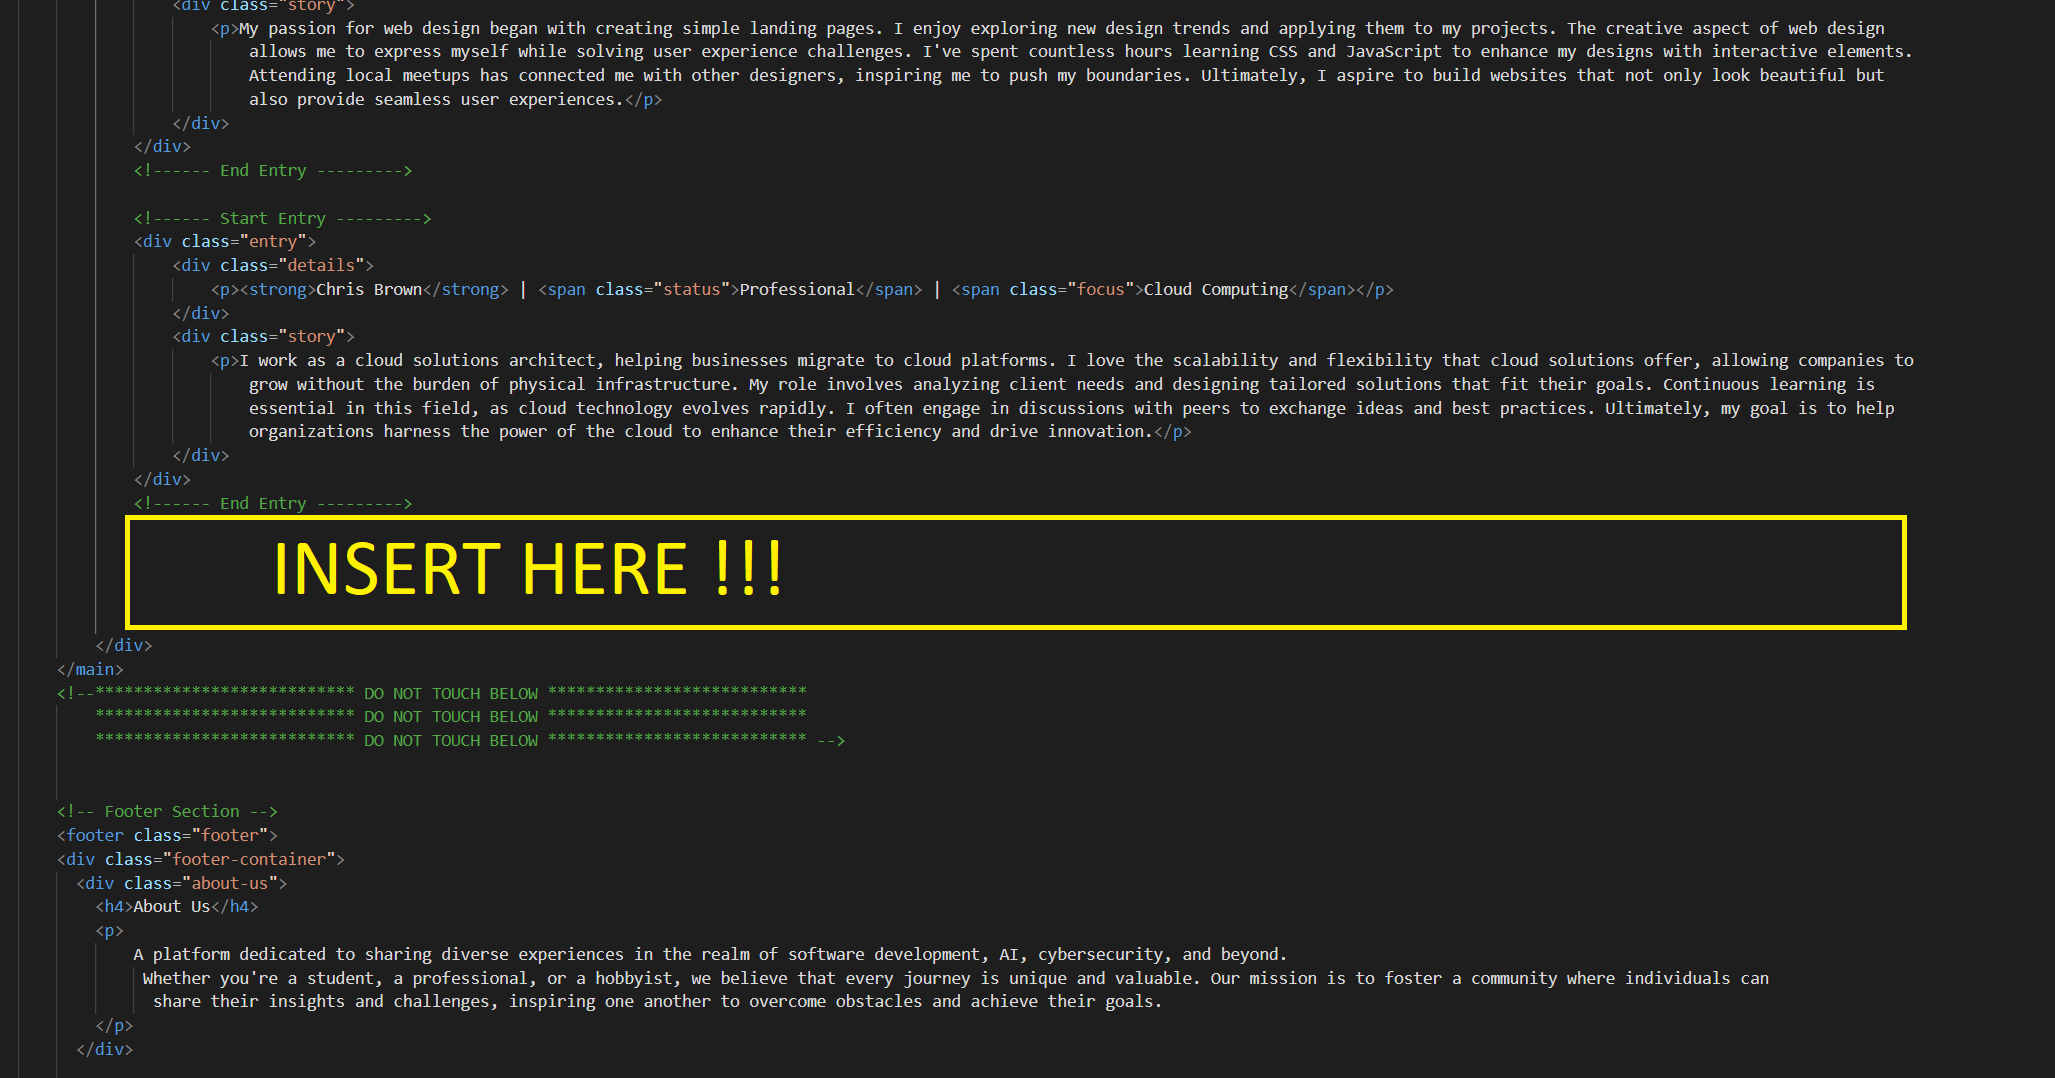
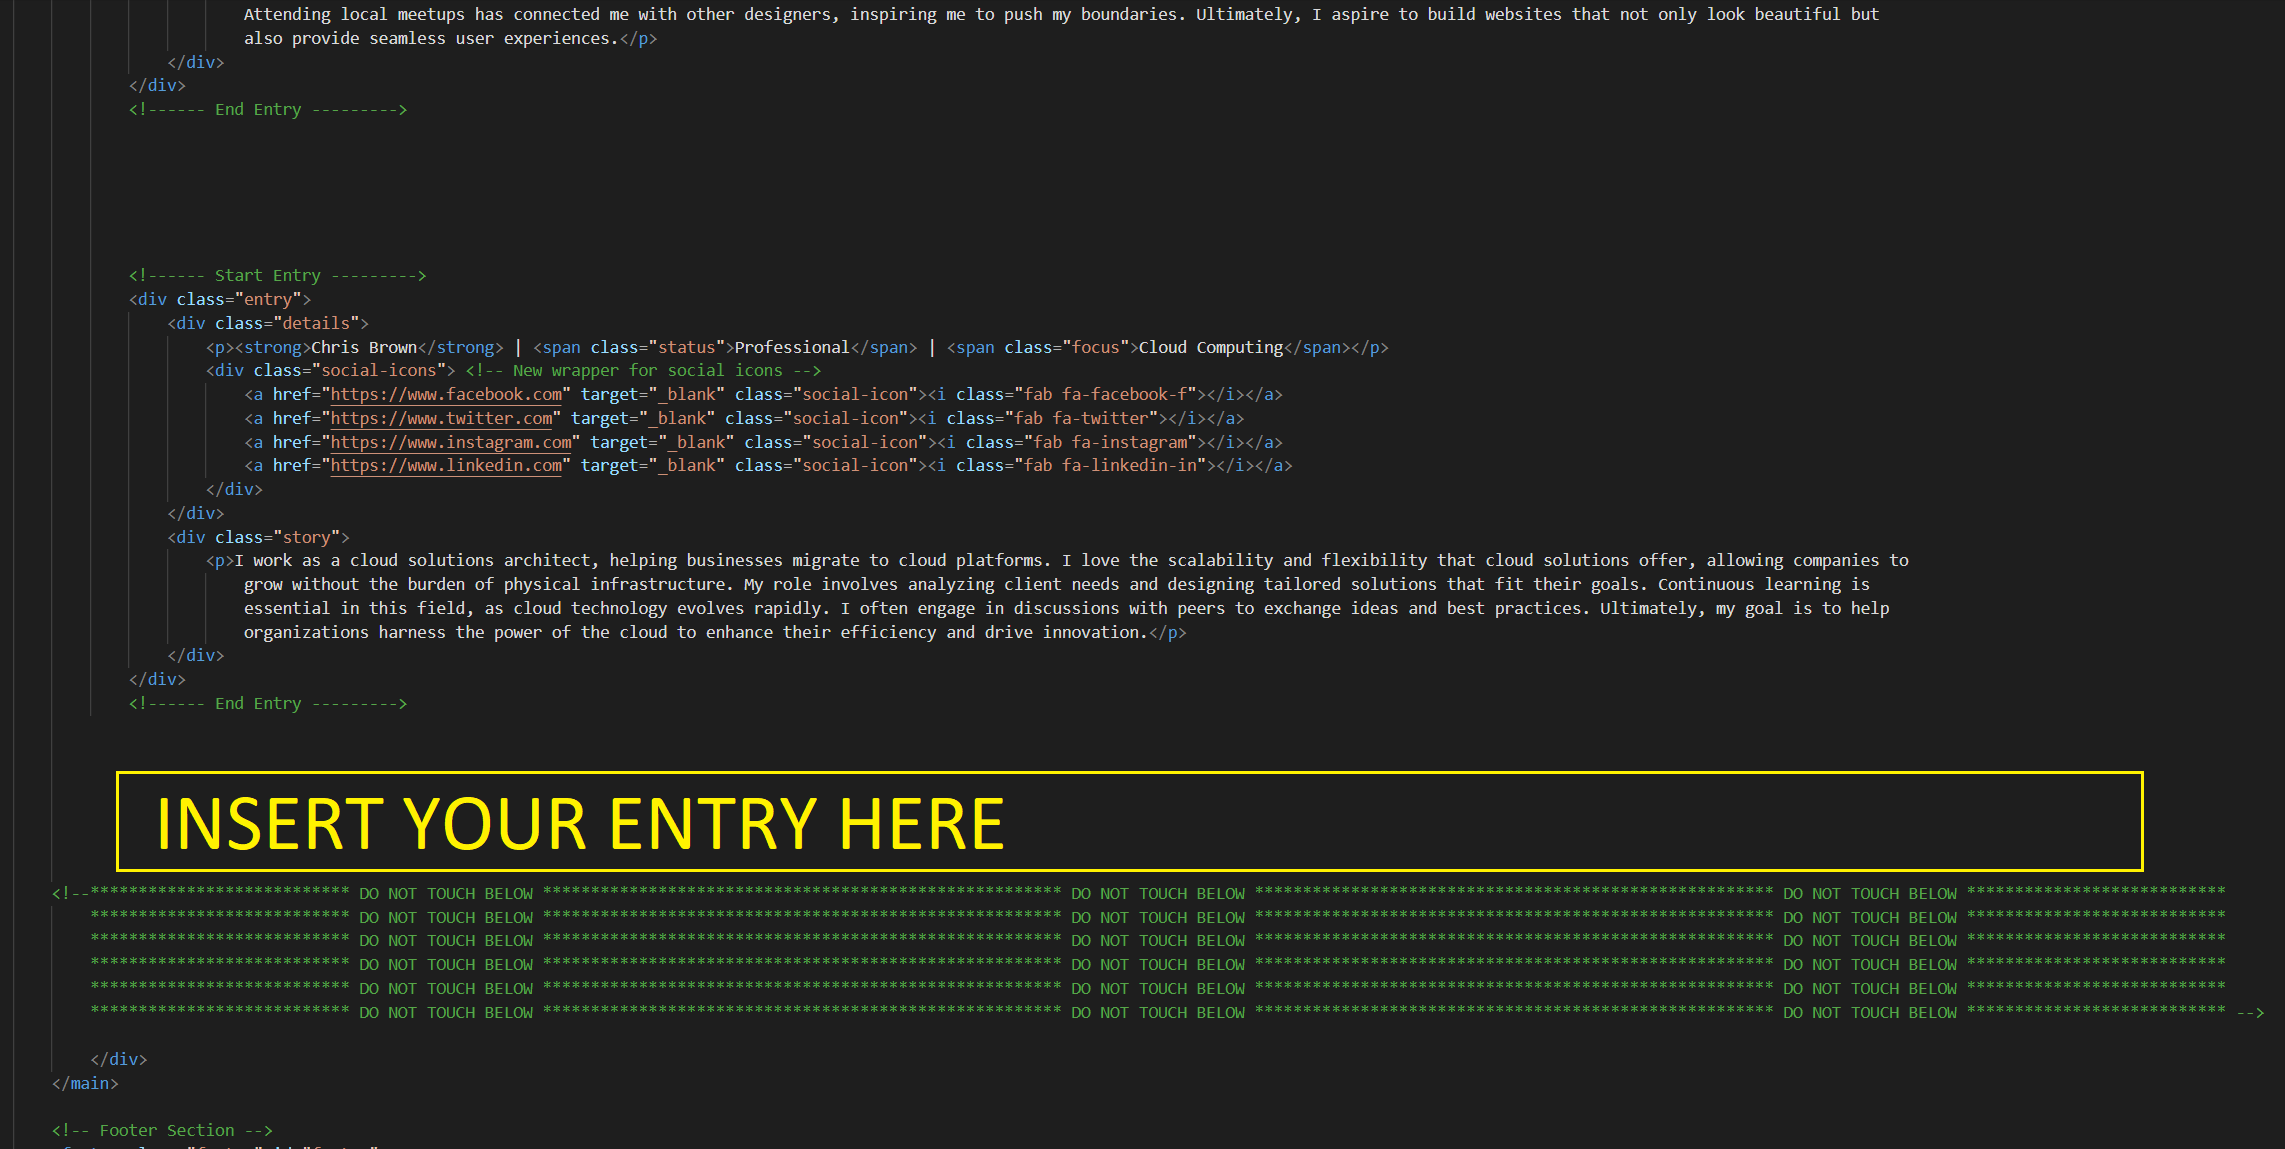
step configured

diff --git a/index.html b/index.html
@@ -11,13 +11,11 @@
     <link rel="stylesheet" href="style.css"> 
 </head>
 <body>
-
     <header id="main-header">
         <div class="logo-container">
             <img src="Logo/TAB.png" alt="Logo" class="logo">
             <span class="logo-text">Programming Odyssey</span>
         </div>
-        
         <a href="https://github.com/Gilgabunada/Programming-Odyssey" class="button">
             Contribute <span class="arrow">→</span>
         </a>
@@ -63,13 +61,16 @@
         </ul>
     </div>
     
-    <!--*************************** DO NOT TOUCH ABOVE ***************************
-        *************************** DO NOT TOUCH ABOVE ***************************
-        *************************** DO NOT TOUCH ABOVE *************************** -->
-
     <main>
         <div class="feed">
             
+    <!--*************************** DO NOT TOUCH ABOVE ****************************************************** DO NOT TOUCH ABOVE ****************************************************** DO NOT TOUCH ABOVE ***************************
+        *************************** DO NOT TOUCH ABOVE ****************************************************** DO NOT TOUCH ABOVE ****************************************************** DO NOT TOUCH ABOVE ***************************
+        *************************** DO NOT TOUCH ABOVE ****************************************************** DO NOT TOUCH ABOVE ****************************************************** DO NOT TOUCH ABOVE ***************************
+        *************************** DO NOT TOUCH ABOVE ****************************************************** DO NOT TOUCH ABOVE ****************************************************** DO NOT TOUCH ABOVE ***************************
+        *************************** DO NOT TOUCH ABOVE ****************************************************** DO NOT TOUCH ABOVE ****************************************************** DO NOT TOUCH ABOVE ***************************
+        *************************** DO NOT TOUCH ABOVE ****************************************************** DO NOT TOUCH ABOVE ****************************************************** DO NOT TOUCH ABOVE *************************** -->
+
             <!------ Start Entry --------->
             <div class="entry">
                 <div class="details">
@@ -255,6 +256,7 @@
             </div>  
             <!------ End Entry --------->  
 
+
             <!------ Start Entry --------->  
             <div class="entry">  
                 <div class="details">  
@@ -275,12 +277,41 @@
             </div>  
             <!------ End Entry --------->  
 
+            <!------ Start Entry --------->  
+            <div class="entry">  
+                <div class="details">  
+                    <p><strong> Name </strong> | <span class="status"> Status </span> | <span class="focus"> Currently Focused </span></p>  
+                    <div class="social-icons"> <!-- New wrapper for social icons -->
+                        <a href="https://www.facebook.com" target="_blank" class="social-icon"><i class="fab fa-facebook-f"></i></a> <!-- Dont forget to change the social media Links -->
+                        <a href="https://www.twitter.com" target="_blank" class="social-icon"><i class="fab fa-twitter"></i></a>      <!-- Dont forget to change the social media Links -->
+                        <a href="https://www.instagram.com" target="_blank" class="social-icon"><i class="fab fa-instagram"></i></a>    <!-- Dont forget to change the social media Links -->
+                        <a href="https://www.linkedin.com" target="_blank" class="social-icon"><i class="fab fa-linkedin-in"></i></a>   <!-- Dont forget to change the social media Links -->
+                    </div>  
+                </div>  
+                <div class="story">  
+                    <p>  Write your Programming journey here..!!!  Write your Programming journey here..!!!  Write your Programming journey here..!!!  Write your Programming journey here..!!!  
+                        Write your Programming journey here..!!!  Write your Programming journey here..!!!  Write your Programming journey here..!!!  Write your Programming journey here..!!! 
+                        Write your Programming journey here..!!!  Write your Programming journey here..!!!  Write your Programming journey here..!!!  Write your Programming journey here..!!! 
+                    </p>  
+                </div>  
+            </div>  
+            <!------ End Entry ---------> 
+
+
+
+
+
+
+
+    <!--*************************** DO NOT TOUCH BELOW ****************************************************** DO NOT TOUCH BELOW ****************************************************** DO NOT TOUCH BELOW ***************************
+        *************************** DO NOT TOUCH BELOW ****************************************************** DO NOT TOUCH BELOW ****************************************************** DO NOT TOUCH BELOW ***************************
+        *************************** DO NOT TOUCH BELOW ****************************************************** DO NOT TOUCH BELOW ****************************************************** DO NOT TOUCH BELOW ***************************
+        *************************** DO NOT TOUCH BELOW ****************************************************** DO NOT TOUCH BELOW ****************************************************** DO NOT TOUCH BELOW ***************************
+        *************************** DO NOT TOUCH BELOW ****************************************************** DO NOT TOUCH BELOW ****************************************************** DO NOT TOUCH BELOW ***************************
+        *************************** DO NOT TOUCH BELOW ****************************************************** DO NOT TOUCH BELOW ****************************************************** DO NOT TOUCH BELOW *************************** -->
+   
         </div>
     </main>
-    <!--*************************** DO NOT TOUCH BELOW ***************************
-        *************************** DO NOT TOUCH BELOW ***************************
-        *************************** DO NOT TOUCH BELOW *************************** -->
-
     
     <!-- Footer Section -->
     <footer class="footer" id="footer">
